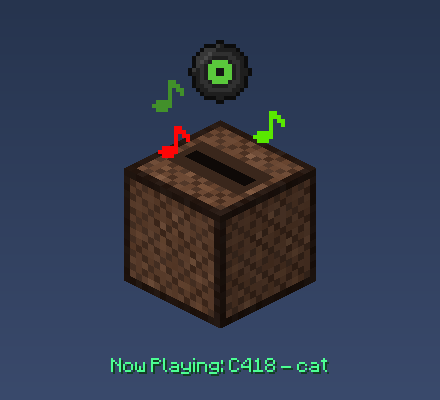
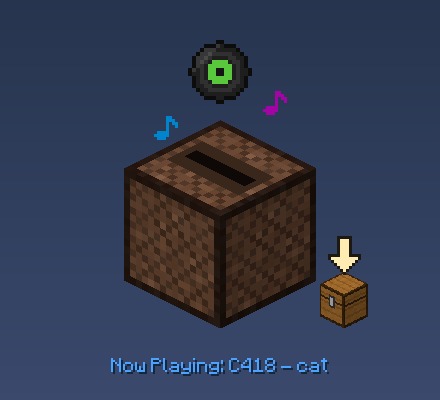
README et CHANGELOG : coffre à disques, lecture enchaînée (0.2.0)
Nouvelles captures (normal, coffre ouvert) et GIF de démo rendus depuis l'app.

diff --git a/README.fr.md b/README.fr.md
@@ -25,6 +25,8 @@ Un clic, un disque sort du jukebox et *Now Playing: C418 - cat* apparaît, comme
 
 - 🎵 **44 morceaux de C418** : les 12 disques et les musiques de fond, récupérés depuis *ta propre* installation de Minecraft.
 - 💿 **Fidèle au jeu** : le disque sort de la fente, le message *Now Playing* est écrit avec la police de Minecraft et passe par les couleurs de l'arc-en-ciel, et des notes de musique s'échappent pendant la lecture.
+- 📦 **Coffre à disques** : clique sur le petit coffre à côté du jukebox pour ouvrir un coffre Minecraft rempli de disques, un par morceau, chacun de sa couleur. Passe la souris sur un disque pour voir l'infobulle du jeu, clique dessus pour lancer ce morceau.
+- 🔁 **Lecture enchaînée** : quand un morceau se termine, un autre se lance au hasard.
 - 🔊 **Volume à la molette** : molette sur le jukebox. Plus c'est fort, plus les notes sont grosses et nombreuses.
 - 🖱 **Où tu veux** : fais-le glisser n'importe où sur le bureau.
 - 🪟 **Un vrai widget de bureau** : fond transparent, reste sous tes applications, et les clics sur les zones vides passent à travers.
@@ -35,6 +37,9 @@ Un clic, un disque sort du jukebox et *Now Playing: C418 - cat* apparaît, comme
 <tr>
 <td align="center"><img src="docs/media/normal.png" width="330" alt="Mode normal"><br><sub>Mode normal</sub></td>
 <td align="center"><img src="docs/media/compact.png" width="330" alt="Mode compact"><br><sub>Mode compact</sub></td>
+</tr>
+<tr>
+<td align="center" colspan="2"><img src="docs/media/chest.png" width="660" alt="Coffre à disques ouvert"><br><sub>Coffre à disques</sub></td>
 </tr>
 </table>
 
@@ -70,9 +75,12 @@ Lance **Jukebox** depuis le menu des applications, ou `.venv/bin/python jukebox.
 | Action | Effet |
 |---|---|
 | Clic gauche sur le jukebox | Joue un morceau au hasard (un autre clic change de morceau) |
+| Clic gauche sur le petit coffre | Ouvre / ferme le coffre à disques |
+| Clic gauche sur un disque du coffre | Joue ce morceau et ferme le coffre |
 | Molette sur le jukebox | Volume, par pas de 10 % |
 | Glisser | Déplace le jukebox |
-| Clic droit sur le jukebox, ou `Échap` | Quitte |
+| `Échap` | Ferme le coffre s'il est ouvert, sinon quitte |
+| Clic droit sur le jukebox | Quitte |
 | 10 s sans interaction | Mode compact ; passe la souris dessus pour revenir au mode normal |
 
 ## Réglages
@@ -83,6 +91,7 @@ Tout se règle dans le dictionnaire `PRESET` en haut de [`jukebox.py`](jukebox.p
 "window_layer": "below",      # "below" (sous tes applis), "normal" ou "top" (toujours au premier plan)
 "window_top_margin": 40,      # distance de départ depuis le haut de l'écran
 "volume_default": 0.7,
+"autoplay": True,             # un nouveau morceau au hasard se lance quand un autre se termine
 "compact_delay": 10.0,        # secondes avant le mode compact
 "compact_transition": 0.8,
 ```
@@ -111,8 +120,8 @@ rm -rf /chemin/vers/jukebox
 | Fichier | Rôle |
 |---|---|
 | `jukebox.py` | Fenêtre, boucle principale, animations, réglages (`PRESET`) |
-| `textures.py` | Pixel art généré par le code : jukebox, disques, notes |
-| `player.py` | Audio : morceau au hasard, volume, progression |
+| `textures.py` | Pixel art généré par le code : jukebox, disques, notes, coffre et son interface |
+| `player.py` | Audio : morceau au hasard ou choisi, volume, progression |
 | `extract_music.py` | Copie la musique de C418 depuis ton installation de Minecraft |
 | `install.sh` | Installation en une commande |
 

diff --git a/README.md b/README.md
@@ -25,6 +25,8 @@ Click it, a disc rises out of the jukebox and *Now Playing: C418 - cat* fades in
 
 - 🎵 **44 C418 tracks**: the 12 music discs and the background music, taken from *your own* Minecraft install.
 - 💿 **Faithful to the game**: the disc rises out of the slot, the *Now Playing* message uses the Minecraft font and fades through the rainbow, and music notes pop out while it plays.
+- 📦 **Disc chest**: click the small chest next to the jukebox to open a Minecraft chest full of music discs, one per track, each with its own colour. Hover a disc for the in-game tooltip, click it to play that track.
+- 🔁 **Autoplay**: when a track ends, another random one starts.
 - 🔊 **Volume with the mouse wheel**: scroll over the jukebox. The notes get bigger and more frequent as it gets louder.
 - 🖱 **Put it anywhere**: drag it around the desktop.
 - 🪟 **A real desktop widget**: transparent background, stays under your apps, and clicks on empty areas go through it.
@@ -35,6 +37,9 @@ Click it, a disc rises out of the jukebox and *Now Playing: C418 - cat* fades in
 <tr>
 <td align="center"><img src="docs/media/normal.png" width="330" alt="Normal mode"><br><sub>Normal mode</sub></td>
 <td align="center"><img src="docs/media/compact.png" width="330" alt="Compact mode"><br><sub>Compact mode</sub></td>
+</tr>
+<tr>
+<td align="center" colspan="2"><img src="docs/media/chest.png" width="660" alt="Disc chest open"><br><sub>Disc chest</sub></td>
 </tr>
 </table>
 
@@ -70,9 +75,12 @@ Launch **Jukebox** from your application menu, or run `.venv/bin/python jukebox.
 | Action | Effect |
 |---|---|
 | Left click on the jukebox | Plays a random track (another click switches track) |
+| Left click on the small chest | Opens / closes the disc chest |
+| Left click on a disc in the chest | Plays that track and closes the chest |
 | Mouse wheel on the jukebox | Volume, by steps of 10% |
 | Drag | Moves the jukebox |
-| Right click on the jukebox, or `Esc` | Quits |
+| `Esc` | Closes the chest if it is open, otherwise quits |
+| Right click on the jukebox | Quits |
 | 10 s without interaction | Compact mode; hover it to bring back the normal mode |
 
 ## Settings
@@ -83,6 +91,7 @@ Everything is tuned in the `PRESET` dictionary at the top of [`jukebox.py`](juke
 "window_layer": "below",      # "below" (under your apps), "normal" or "top" (always on top)
 "window_top_margin": 40,      # starting distance from the top of the screen
 "volume_default": 0.7,
+"autoplay": True,             # a new random track starts when one ends
 "compact_delay": 10.0,        # seconds before compact mode
 "compact_transition": 0.8,
 ```
@@ -111,8 +120,8 @@ rm -rf /path/to/jukebox
 | File | Role |
 |---|---|
 | `jukebox.py` | Window, main loop, animations, settings (`PRESET`) |
-| `textures.py` | Procedural pixel art: jukebox, discs, notes |
-| `player.py` | Audio: random track, volume, progress |
+| `textures.py` | Procedural pixel art: jukebox, discs, notes, chest and its GUI |
+| `player.py` | Audio: random or chosen track, volume, progress |
 | `extract_music.py` | Copies the C418 music from your Minecraft install |
 | `install.sh` | One-step install |
 

diff --git a/CHANGELOG.md b/CHANGELOG.md
@@ -1,5 +1,18 @@
 # Changelog
 
+## [0.2.0] - 2026-10-04
+
+### Added
+- Disc chest: a small chest next to the jukebox, with a bouncing indicator arrow. Click it to open a
+  Minecraft chest GUI on the right with every track as a music disc (27 per page, `<` `>` to change page).
+  Hover a disc for the in-game tooltip, click it to play that track; the chest closes.
+- Tracks without an official disc get their own label colour, as a rainbow gradient.
+- Autoplay: when a track ends, another random one starts (`"autoplay"` in `PRESET`).
+
+### Fixed
+- Black square around the jukebox when the machine's hostname changed after login
+  (python-xlib could not use the X cookie, so transparency was turned off).
+
 ## [0.1.0] - 2026-10-04
 
 First release.
@@ -15,4 +28,5 @@ First release.
 - Clicks on transparent areas go through to what is below.
 - `install.sh`: virtual environment, music extraction from your Minecraft install, app menu shortcut.
 
+[0.2.0]: https://github.com/boomer24vs/jukebox/compare/v0.1.0...main
 [0.1.0]: https://github.com/boomer24vs/jukebox/releases/tag/v0.1.0
